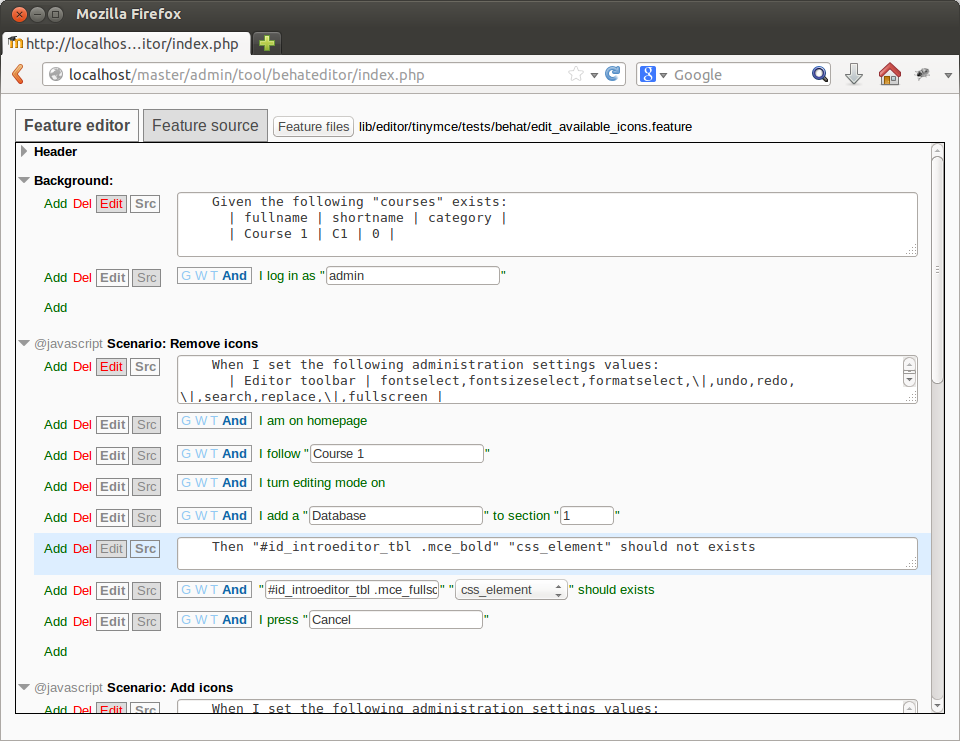
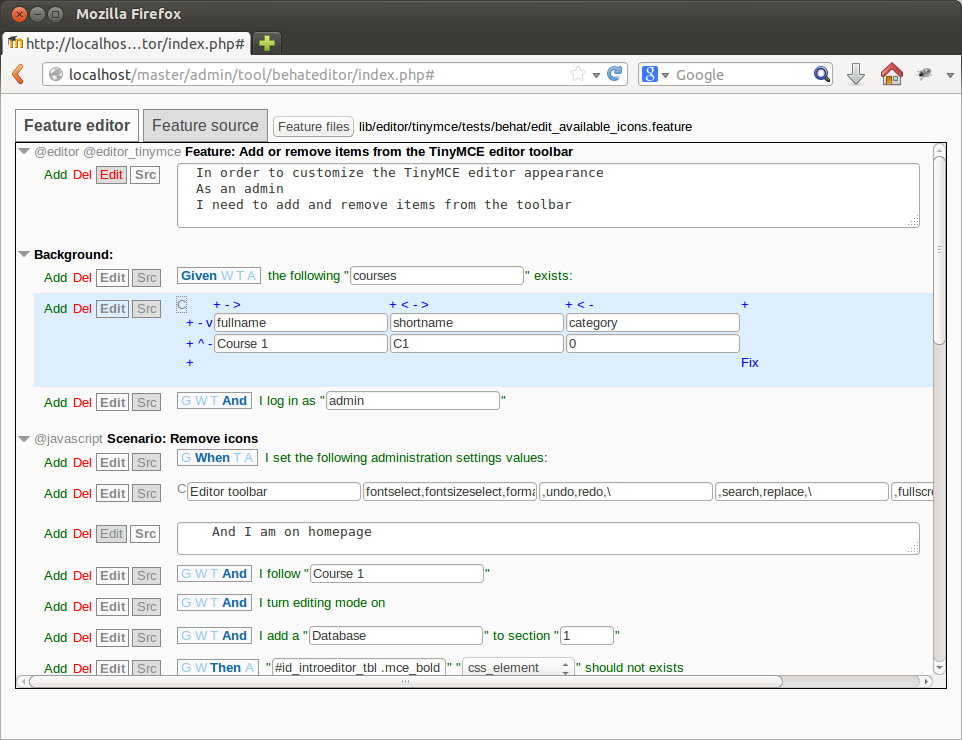
Functionality to edit tables

diff --git a/yui/editor/editor.js b/yui/editor/editor.js
@@ -103,6 +103,10 @@ M.tool_behateditor = {
         Y.one('#behateditor_featureedit').delegate('valuechange',
             function(){M.tool_behateditor.set_feature_can_be_saved(true);},
             'input,textarea,select');
+        // Add table column or row
+        Y.one('#behateditor_featureedit').delegate('click',
+            M.tool_behateditor.click_add_table_row_or_column,
+            '.steptablenode .tableaction');
         M.tool_behateditor.set_feature_contents('', null, false);
     },
 
@@ -254,6 +258,17 @@ M.tool_behateditor = {
         sourcecode.set('value', str);
     },
 
+    click_add_table_row_or_column : function(e) {
+        // TODO move to table class somehow?
+        e.preventDefault();
+        var stepel = e.currentTarget.ancestor('.step.stepmode-editor');
+        M.tool_behateditor.make_step_definition(stepel);
+        var textarea = stepel.one('.stepsource textarea'), src = textarea.get('value');
+        src = M.tool_behateditor.stepsdefinitions.get('000').table_action(e, src);
+        textarea.set('value', src);
+        M.tool_behateditor.parse_step_definition(stepel);
+    },
+
     get_feature_contents : function() {
         if (Y.one('#behateditor_featureedit .featureedit').getAttribute('data-mode') === 'editor') {
             M.tool_behateditor.convert_from_editor_to_source();
@@ -286,7 +301,7 @@ M.tool_behateditor = {
                 sourcecodenode = stepel.one('.stepsource textarea'),
                 hash = editornode.getAttribute('data-hash'),
                 stepdef = M.tool_behateditor.stepsdefinitions.get(hash);
-        sourcecodenode.set('value', stepdef.convert_from_editor_to_source(editornode));
+        sourcecodenode.set('value', stepdef.convert_from_editor_to_source(editornode, sourcecodenode.get('value')));
     },
 
     parse_step_definition : function(stepel) {
@@ -549,12 +564,15 @@ M.tool_behateditor = {
                 src = step.get_new_step_text(),
                 node = M.tool_behateditor.feature_step_node(src);
             tempnode.get('parentNode').insertBefore(node, tempnode);
-            if (step.multiline) {
-                var tnode = M.tool_behateditor.feature_step_node('      |  |  |');
-                tempnode.get('parentNode').insertBefore(tnode, tempnode);
-            }
             M.tool_behateditor.click_feature_editor_stepcontrol({currentTarget: node.one('.stepcontrols .stepaction-editor')});
             M.tool_behateditor.mark_node_as_just_added(node);
+            if (step.multiline) {
+                var tsrc = M.tool_behateditor.stepsdefinitions.get('000').get_new_step_text(),
+                    tnode = M.tool_behateditor.feature_step_node(tsrc);
+                tempnode.get('parentNode').insertBefore(tnode, tempnode);
+                M.tool_behateditor.click_feature_editor_stepcontrol({currentTarget: tnode.one('.stepcontrols .stepaction-editor')});
+                M.tool_behateditor.mark_node_as_just_added(tnode);
+            }
         }
         tempnode.remove();
     },
@@ -963,9 +981,10 @@ STEP_DEFINITION.prototype = {
      * Converts from editor to sourcecode
      *
      * @param {Node} editornode
+     * @param {String} originalsrc
      * @returns {String}
      */
-    convert_from_editor_to_source : function(editornode) {
+    convert_from_editor_to_source : function(editornode, originalsrc) {
         // TODO!
         var steptype = editornode.one('.steptype .iscurrent').getAttribute('data-steptype'),
                 node = Y.Node.create('<div></div>');
@@ -1070,13 +1089,26 @@ STEP_DEFINITION_TABLE.prototype = {
      * @returns {Array}|false
      */
     match_step : function(str) {
-        if (str.match(/^\s*\|.*\|/)) {
-            return true;
+        if (!str.match(/^\s*\|.*\|/)) {
+            return null;
         }
-        return null;
+        var lines = str.replace(/[\s\n]+$/).split(/\n/);
+        var chunks = [];
+        for (i in lines) {
+            if (!lines[i].match(/^\s*\|.*\|\s*$/)) {
+                return null;
+            }
+            var thischunks = lines[i].replace(/(^\s*\||\|\s*$)/g,'').split(/\|/);
+            if (chunks.length && thischunks.length !== chunks[chunks.length-1].length) {
+                // Different number of columns comparing to the previous row
+                return null;
+            }
+            chunks.push(thischunks);
+        }
+        return chunks;
     },
     get_new_step_text : function() {
-        return '      |  |  |';
+        return '      |  |  |'+"\n"+'      |  |  |';
     },
     display_in_search_results : function() {
         return null;
@@ -1087,14 +1119,43 @@ STEP_DEFINITION_TABLE.prototype = {
     has_any_keyword : function() {
         return false;
     },
+    _transpose : function(a) {
+        return Object.keys(a[0]).map(
+            function (c) { return a.map(function (r) { return r[c]; }); }
+        );
+    },
+    _make_source_from_array : function(chunks, originalsrc) {
+        var max_length = function(a) { return Math.max.apply(Math, a.map(function(e){return e.trim().length;})); },
+            cwidth = this._transpose(chunks).map(function(a){return max_length(a);}),
+            repeat_str = function(str, l) { return (new Array(l+1)).join(str); };
+        chunks = chunks.map(function(a) {
+            return a.map(function(e,i) {e=e.trim(); return ' '+e+repeat_str(' ', cwidth[i]-e.length+1);});
+        });
+        src = chunks.map(function(a){ return '      |'+a.join('|')+'|'; }).join("\n");
+        return src;
+    },
     /**
      * Converts from editor to sourcecode
      *
      * @param {Node} editornode
+     * @param {String} originalsrc
      * @returns {String}
      */
-    convert_from_editor_to_source : function(editornode) {
-        return editornode.one('textarea').get('value');
+    convert_from_editor_to_source : function(editornode, originalsrc) {
+        var table = editornode.one('table');
+        if (table.getAttribute('data-modified') === '0') {
+            return originalsrc;
+        }
+        var rows = table.getAttribute('data-rows'),
+                columns = table.getAttribute('data-columns'),
+                i, j, chunks = [];
+        for (i=0;i<rows;i++) {
+            chunks.push([]);
+            for (j=0;j<columns;j++) {
+                chunks[i].push(table.one('td[data-row="'+i+'"][data-column="'+j+'"] input').get('value'));
+            }
+        }
+        return this._make_source_from_array(chunks, originalsrc);
     },
     /**
      * Converts from sourcecode to editor
@@ -1104,8 +1165,141 @@ STEP_DEFINITION_TABLE.prototype = {
     convert_from_sourcecode_to_editor : function(src, editornode) {
         editornode.setContent('');
         editornode.setAttribute('data-hash', this.hash);
-        editornode.append('<textarea class="skiptextarea">'+src+'</textarea>');
+        var chunks = this.match_step(src), i,
+            table = Y.Node.create('<table class="steptablenode hidecontrols"></table>');
+        table.setAttribute('data-modified', '0');
+        table.setAttribute('data-rows', chunks.length);
+        table.setAttribute('data-columns', chunks[0].length);
+        var tablecell = function(content, attributes) {
+            var td = Y.Node.create('<td></td>');
+            if (attributes) {
+                for (var i in attributes) { td.setAttribute(i, attributes[i]); }
+            }
+            td.append(content);
+            return td;
+        }, control = function(action, idx) {
+            var fixtures = {
+                plusrow: {title: 'Add table row', text: '+'},
+                pluscolumn: {title: 'Add table column', text: '+'},
+                deleterow: {title: 'Delete table row', text: '-'},
+                deletecolumn: {title: 'Delete table column', text: '-'},
+                moveup: {title: 'Move row up', text: '^'},
+                movedown: {title: 'Move row down', text: 'v'},
+                moveright: {title: 'Move column right', text: '&gt;'},
+                moveleft: {title: 'Move column left', text: '&lt;'},
+                fixtable: {title: 'Remove empty rows and columns', text: 'Fix'}
+            };
+            return '<a href="#" class="tableaction '+action+'" data-action="'+action+'" data-idx="'+idx+'" title="'+fixtures[action].title+'">'+
+                    fixtures[action].text+'</a> ';
+        }, tablecell_columncontrols = function(idx, columnscount) {
+            var content = control('pluscolumn', idx);
+            if (idx>0 && idx<columnscount) { content += control('moveleft', idx); }
+            if (idx<columnscount) { content += control('deletecolumn', idx); }
+            if (idx<columnscount-1) { content += control('moveright', idx); }
+            return tablecell(content, {class:'controls'});
+        }, tablecell_rowcontrols = function(idx, rowscount) {
+            var content = control('plusrow', idx);
+            if (idx>0 && idx<rowscount) { content += control('moveup', idx); }
+            if (idx<rowscount) { content += control('deleterow', idx); }
+            if (idx<rowscount-1) { content += control('movedown', idx); }
+            return tablecell(content, {class:'controls'});
+        }, tablecell_input = function(irow, icolumn) {
+            var input = Y.Node.create('<input type="text" size="20"/>');
+            input.set('value', chunks[irow][icolumn].trim());
+            return tablecell(input, {'data-row': irow, 'data-column': icolumn});
+        }, tablerow = function(elementfirst, elements, elementlast) {
+            var tr = Y.Node.create('<tr></tr>');
+            tr.append(elementfirst);
+            for (var idx in elements) { tr.append(elements[idx]); }
+            tr.append(elementlast);
+            return tr;
+        };
+        for (i in chunks) {
+            if (i==0) {
+                var prefix = '<td valign="top" rowspan="'+(chunks.length+2)+'"><a href="#" class="toggletableedit" title="Toggle table edit controls">'+
+                    'C'+'</a> </td>'
+                table.append(tablerow(prefix + '<td class="controls"></td>',
+                    chunks[0].map(function(e,j){return tablecell_columncontrols(j, chunks[0].length);}),
+                    tablecell_columncontrols(chunks[0].length, chunks[0].length)
+                ));
+            }
+            table.append(tablerow(tablecell_rowcontrols(i, chunks.length),
+                chunks[i].map(function(e,j){return tablecell_input(i, j);}),
+                tablecell('', {class:'controls'})
+            ));
+        }
+        table.append(tablerow(tablecell_rowcontrols(chunks.length, chunks.length),
+            chunks[0].map(function(e,j){return tablecell('', {class:'controls'});}),
+            tablecell(control('fixtable', 0), {class:'controls'})
+        ));
+        editornode.append(table);
+        table.delegate(
+            'valuechange', function(e) { table.setAttribute('data-modified', '1'); },
+            'input');
+        table.one('.toggletableedit').on('click', function(e) {
+            var editor = table.ancestor('.stepeditor');
+            if (editor.hasClass('showcontrols')) {
+                editor.removeClass('showcontrols');
+            } else {
+                editor.addClass('showcontrols');
+            }
+        });
         return editornode;
+    },
+    table_action : function(e, src) {
+        var action = e.currentTarget.getAttribute('data-action'),
+            idx = parseFloat(e.currentTarget.getAttribute('data-idx')),
+            chunks = this.match_step(src),
+            swapelements = function(A, x, y) {
+                var tmp = A[x];
+                A[x] = A[y];
+                A[y] = tmp;
+                return A;
+            };
+        //console.log(src)
+        if (action === 'plusrow') {
+            // Add a row
+            chunks.splice(idx, 0, (new Array(chunks[0].length)).join(',').split(/,/));
+        } else if (action === 'deleterow') {
+            // Delete a row
+            if (chunks.length == 1) {
+                chunks = [['']];
+            } else {
+                chunks.splice(idx, 1);
+            }
+        } else if (action === 'moveup') {
+            // Move row up
+            chunks = swapelements(chunks, idx-1, idx);
+        } else if (action === 'movedown') {
+            // Move row down
+            chunks = swapelements(chunks, idx, idx+1);
+        } else if (action === 'pluscolumn') {
+            // Add a column
+            chunks = chunks.map(function(e) {e.splice(idx, 0, ''); return e;});
+        } else if (action === 'deletecolumn') {
+            // Delete a column
+            if (chunks[0].length == 1) {
+                chunks = [['']];
+            } else {
+                chunks = chunks.map(function(e) {e.splice(idx, 1); return e;});
+            }
+        } else if (action === 'moveright') {
+            // Move column right
+            chunks = chunks.map(function(a) {return swapelements(a, idx, idx+1);});
+        } else if (action === 'moveleft') {
+            // Move column right
+            chunks = chunks.map(function(a) {return swapelements(a, idx-1, idx);});
+        } else if (action === 'fixtable') {
+            // Remove empty rows and columns.
+            var filter_nonempty_rows = function(a) {
+                var b = a.filter(function(e) {return e.join('').trim() !== '';});
+                return (b.length == 0) ? [['']] : b;
+            };
+            chunks = this._transpose(filter_nonempty_rows(this._transpose(filter_nonempty_rows(chunks))));
+        } else {
+            return src;
+        }
+        return this._make_source_from_array(chunks, src);
     }
 };
 

diff --git a/styles.css b/styles.css
@@ -252,6 +252,23 @@ form#behateditor_searchform
     color: #1467a6;
 }
 
+.path-admin-tool-behateditor .steptablenode .toggletableedit {
+    color: #888;
+}
+
+.path-admin-tool-behateditor .stepeditor table.steptablenode td.controls {
+    display: none;
+}
+
+.path-admin-tool-behateditor .stepeditor.showcontrols table.steptablenode td.controls {
+    display: table-cell;
+}
+
+.path-admin-tool-behateditor .steptablenode td {
+    margin: 0;
+    padding: 0;
+}
+
 .path-admin-tool-behateditor .featurefileslist {
     max-height: 420px;
     overflow: auto;
